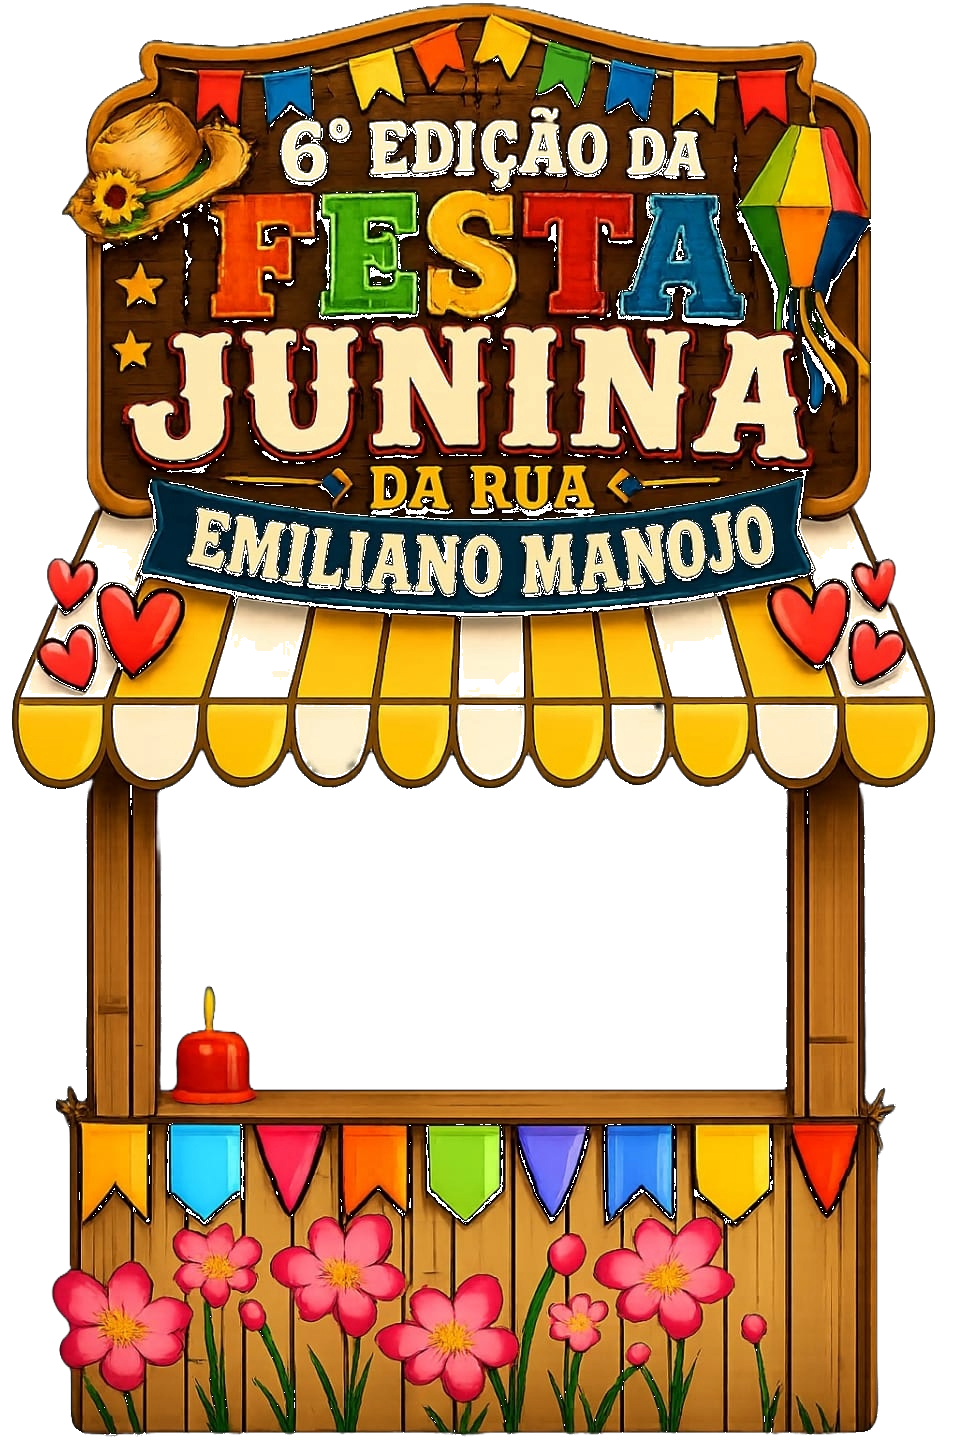
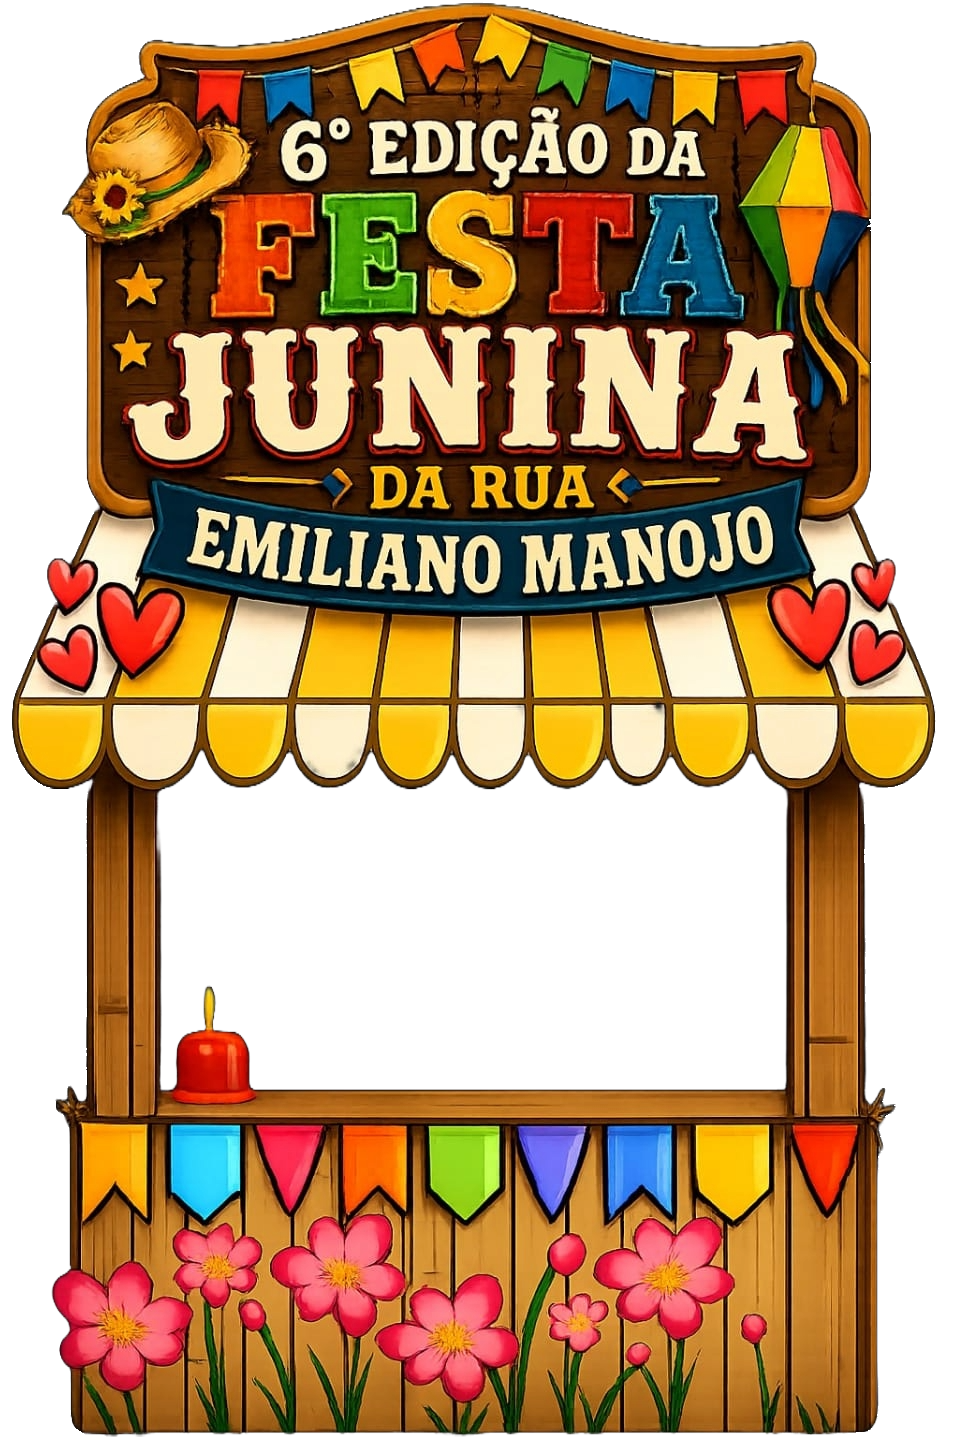
Remove color-based internal transparency to preserve cream + black lines

diff --git a/process.js b/process.js
@@ -54,14 +54,6 @@ async function process() {
       const i = (y * width + x) * 4;
       const r = data[i], g = data[i + 1], b = data[i + 2];
 
-      const maxC = Math.max(r, g, b);
-      const minC = Math.min(r, g, b);
-      const bright = (r + g + b) / 3;
-      const sat = maxC - minC;
-
-      const isDarkBg = maxC < 12;
-      const isLightBg = bright > 190 && sat < 48 && minC / Math.max(maxC, 1) > 0.84;
-
       let makeTransparent = false;
 
       if (left === -1) {
@@ -69,12 +61,6 @@ async function process() {
         makeTransparent = true;
       } else if (x < left || x > right) {
         // Outside content boundaries
-        makeTransparent = true;
-      } else if (isDarkBg) {
-        // Black background within content area
-        makeTransparent = true;
-      } else if (isLightBg) {
-        // White/cream background within content area
         makeTransparent = true;
       }
 

diff --git a/index.html b/index.html
@@ -1,1 +1,1 @@
-<!DOCTYPE html><html lang="pt"><head><meta charset="UTF-8"><meta name="viewport" content="width=device-width,initial-scale=1,user-scalable=no"><title>Moldura Festa Junina</title><style>*{margin:0;padding:0;box-sizing:border-box}body{font-family:system-ui;background:#0a0500;color:#fff;display:flex;flex-direction:column;align-items:center;justify-content:center;min-height:100vh;text-align:center;padding:24px;gap:24px}h1{color:#fc0;font-size:1.5rem}p{color:#ccc;font-size:.9rem}.btn{display:inline-block;background:#2a4;color:#fff;padding:16px 40px;border-radius:14px;text-decoration:none;font-weight:bold;font-size:1.1rem;box-shadow:0 4px 0 #144}.btn:active{transform:scale(.96)}ol{text-align:left;background:#111;border-radius:10px;padding:20px 28px;max-width:300px;font-size:.85rem;line-height:1.8}ol li{margin:2px 0;color:#ccc}small{color:#888;font-size:.7rem;max-width:280px}</style></head><body><h1>🎉 Festa Junina</h1><p>Baixe a moldura e use<br>como sticker no Instagram</p><a class="btn" href="https://files.catbox.moe/n0qfab.png" download>⬇ Baixar Moldura</a><ol><li>Abra o <b>Instagram</b></li><li>Crie um Story com sua <b>foto</b></li><li>Toque em <b>Stickers</b></li><li>Vá em <b>Galeria</b></li><li>Selecione a moldura</li><li><b>Posicione</b> sobre a foto</li></ol><small>Moldura original 960×1438 com fundo preto transparente</small></body></html>
+<!DOCTYPE html><html lang="pt"><head><meta charset="UTF-8"><meta name="viewport" content="width=device-width,initial-scale=1,user-scalable=no"><title>Moldura Festa Junina</title><style>*{margin:0;padding:0;box-sizing:border-box}body{font-family:system-ui;background:#0a0500;color:#fff;display:flex;flex-direction:column;align-items:center;justify-content:center;min-height:100vh;text-align:center;padding:24px;gap:24px}h1{color:#fc0;font-size:1.5rem}p{color:#ccc;font-size:.9rem}.btn{display:inline-block;background:#2a4;color:#fff;padding:16px 40px;border-radius:14px;text-decoration:none;font-weight:bold;font-size:1.1rem;box-shadow:0 4px 0 #144}.btn:active{transform:scale(.96)}ol{text-align:left;background:#111;border-radius:10px;padding:20px 28px;max-width:300px;font-size:.85rem;line-height:1.8}ol li{margin:2px 0;color:#ccc}small{color:#888;font-size:.7rem;max-width:280px}</style></head><body><h1>🎉 Festa Junina</h1><p>Baixe a moldura e use<br>como sticker no Instagram</p><a class="btn" href="https://files.catbox.moe/thanug.png" download>⬇ Baixar Moldura</a><ol><li>Abra o <b>Instagram</b></li><li>Crie um Story com sua <b>foto</b></li><li>Toque em <b>Stickers</b></li><li>Vá em <b>Galeria</b></li><li>Selecione a moldura</li><li><b>Posicione</b> sobre a foto</li></ol><small>Moldura original 960×1438 com fundo preto transparente</small></body></html>